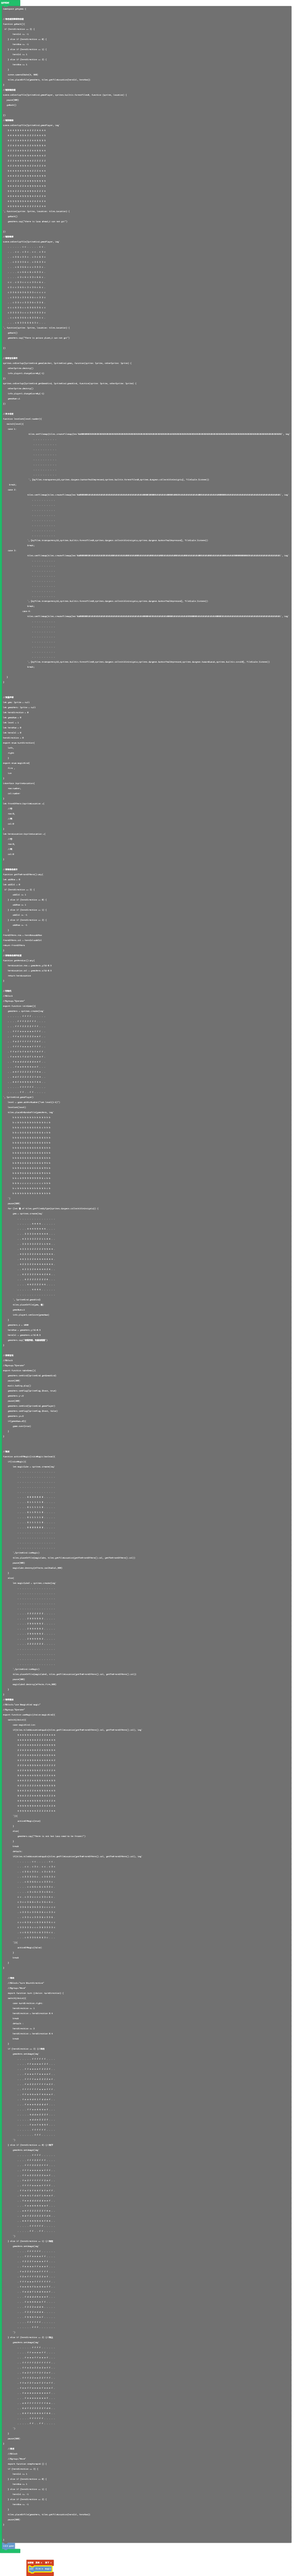
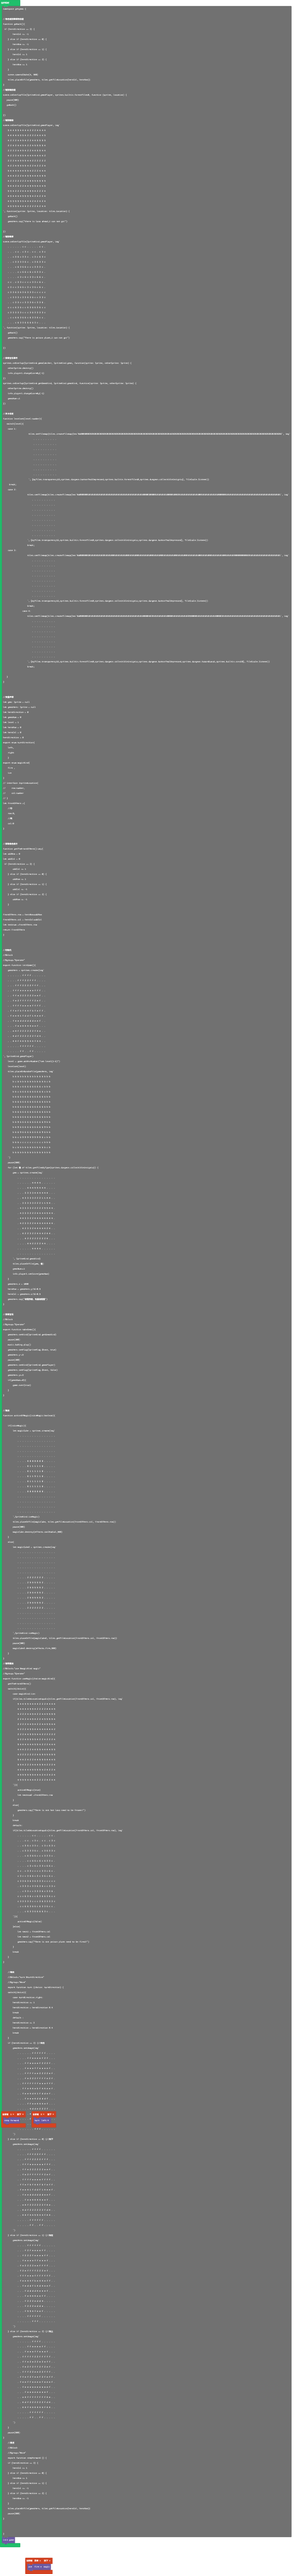
更新 main.blocks, main.ts

Changed region(s): [[0.0, 0.3106, 0.1834, 1.0]]

diff --git a/main.ts b/main.ts
@@ -16,6 +16,11 @@ controller.B.onEvent(ControllerButtonEvent.Pressed, function () {
 controller.menu.onEvent(ControllerButtonEvent.Pressed, function () {
     getgems.useMagic(getgems.magicKind.fire)
 })
+
+
+//icon="\u25CA"
+//% weight=100 color=#6699CC icon="\u25CA" block="Getgems"
+//% groups='["Operate", "Move"]'
 namespace getgems {
 
 //角色碰到障碍物回退
